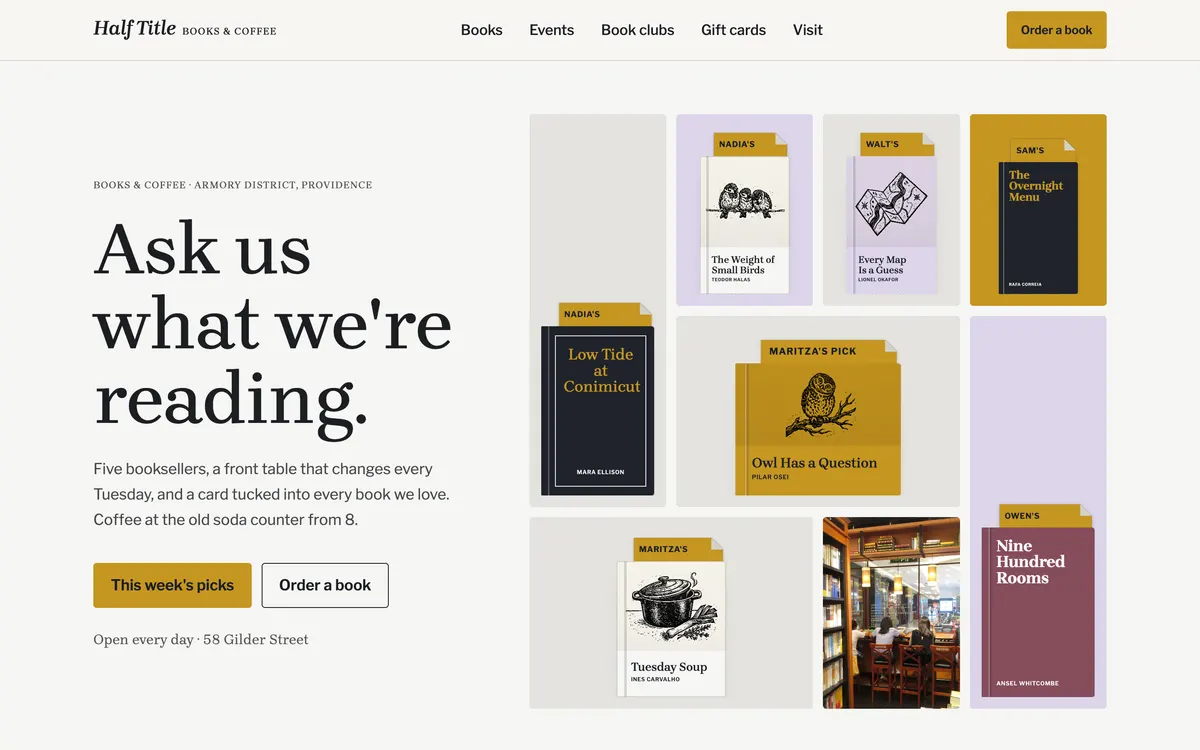
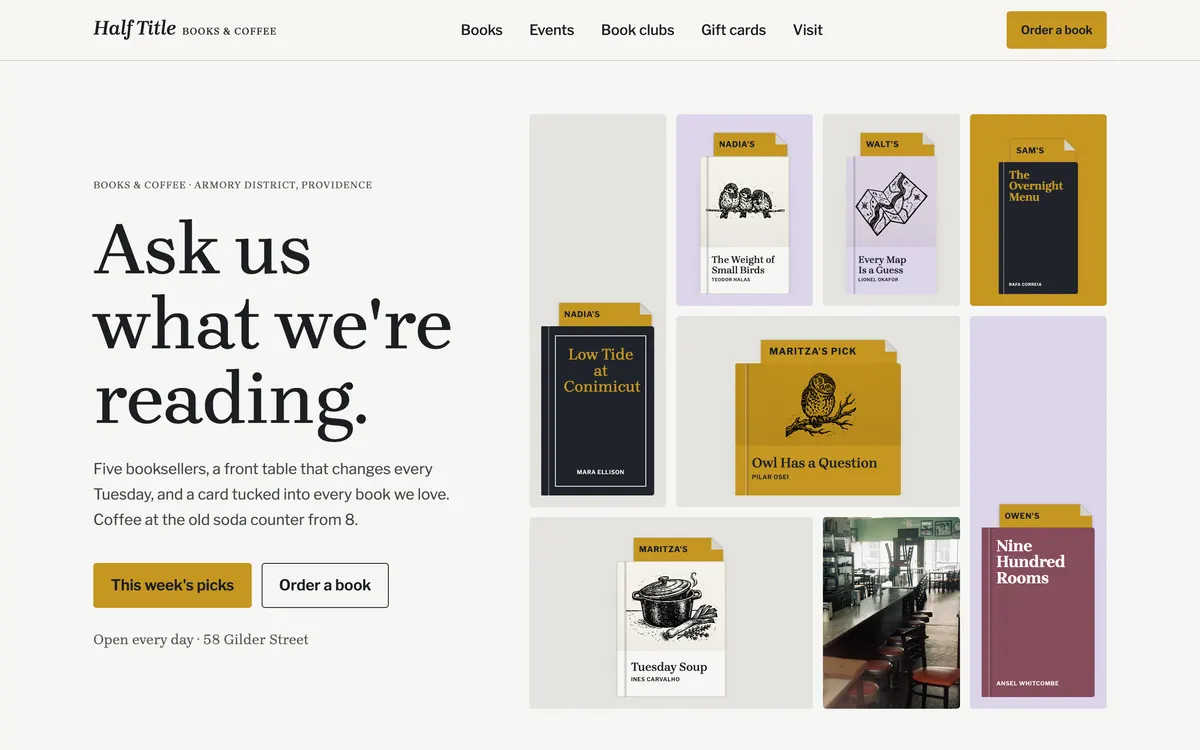
Dogear 1.0.0, review corrections: the visit page's corner building is cropped above its ground floor so no shop's name shows; the hero's photo tile is the soda counter, as the brief asks, in place of a mall bookshop with readable spines; the unused shelves photo is deleted, and the café's pictures c

Changed region(s): [[0.6783, 0.6747, 0.8017, 0.9507]]

diff --git a/dogear/scripts/upcoming.js b/dogear/scripts/upcoming.js
@@ -9,7 +9,7 @@
 // clears the timer and every data-when.
 const EVENING = 17 * 60;
 let timer;
-let marked = [];
+const marked = new Set();
 
 function today(tz) {
   const parts = (zone) =>
@@ -45,13 +45,13 @@ function mark() {
     if (when) event.dataset.when = when;
     else delete event.dataset.when;
     delete event.dataset.beyond;
-    marked.push(event);
+    marked.add(event);
   }
   for (const list of document.querySelectorAll("[data-upcoming]")) {
     const count = Number(list.dataset.upcoming);
     if (!count) continue;
     list.dataset.counted = "";
-    marked.push(list);
+    marked.add(list);
     let shown = 0;
     for (const event of list.querySelectorAll(":scope > [data-event]")) {
       if (event.dataset.when === "past") continue;
@@ -75,5 +75,5 @@ export function stop() {
     delete el.dataset.beyond;
     delete el.dataset.counted;
   }
-  marked = [];
+  marked.clear();
 }

diff --git a/dogear/TEMPLATE.md b/dogear/TEMPLATE.md
@@ -5,16 +5,13 @@ Dogear is the website of an independent bookshop that reads like its front table
 ## How it is made
 
 - Every page shares the header (`parts/header.liquid`: the name "Half Title" with "Books & coffee" from `parts/logo.liquid`, the pages from `navigation`, an "Order a book" button; a Menu button below 1280 px) and the footer (`parts/footer.liquid`, on ink: the name, the Tuesday letter's sign-up from `parts/newsletter.liquid`, the address, phone and email, the week from `hours`, and the links).
-- The covers are drawn, never photos shipped with the template: `parts/jacket.liquid` draws a book from its record's `jacket` (band, frame, type, cloth, art), `tone` (ochre, umber, ink, paper, endpaper, board), `format` (hardcover, paperback, pocket, picture, large) and, for the art layout, its `art` print. The title and author are typed on it. A photo in the book's `image` takes the drawing's place.
 - `parts/pick.liquid` is a staff pick: the jacket with its bookseller's card (`picked_by` and `note`) tucked behind it, peeking in the hero, standing full elsewhere. `parts/hold-link.liquid` is every "Hold a copy" (or "Order it in" when `available` is off), which opens `/order` with the book's title and author written in.
-- The lists: `products` (labeled Books: the hero's mosaic and the staff picks where `pick`, the book of the week where `featured`, the new row where `new`, the signed copies where `badge` is "Signed", a page per book), `team` (the booksellers, matched to a card by `first_name`), `events` (the readings, a page each; a reading's `book` names a book by its title), `clubs` (a club's `next_book` names a book by its title), `hours`, `menu` (the café, courses `drinks` and `pastries`), `clubs-steps`, `order-steps`, `gift-uses`, `events-faq`, `order-faq`, `visit-faq` and `navigation`. Five collected datasources take what visitors send: `special-orders`, `rsvps`, `club-signups`, `gift-card-requests` and `newsletter`, each answered by its fragment in `fragments/`.
+- The lists: `products` (labeled Books: the hero's mosaic and the staff picks where `pick`, the book of the week where `featured`, the new row where `new`, the signed copies where `badge` is "Signed", a page per book), `team` (the booksellers, matched to a card by `first_name`), `events` (the readings, a page each; a reading's `book` names a book by its title), `clubs` (a club's `next_book` names a book by its title), `hours`, `menu` (the café, courses `drinks` and `pastries`), `getting-here`, `clubs-steps`, `order-steps`, `gift-uses`, `events-faq`, `order-faq`, `visit-faq` and `navigation`. Five collected datasources take what visitors send: `special-orders`, `rsvps`, `club-signups`, `gift-card-requests` and `newsletter`, each answered by its fragment in `fragments/`.
 
 ## When adapting
 
 - The name (Half Title Books & Coffee) is in `parts/logo.liquid`, every page's title and description, the footer's last line, `parts/gift-card.liquid` and `parts/story.liquid`. The address (58 Gilder Street, Providence, RI 02909) is in the header's menu, the footer, `parts/hours-address.liquid` and `parts/story.liquid`, with "Get directions" links to a map search for it: change it in those links too. The phone ((401) 555-0163) and the emails are in the footer, `parts/order-band.liquid`, `parts/order-form.liquid`, `parts/faq.liquid`, `parts/hours-address.liquid`, `pages/events/index.liquid` and `pages/clubs.liquid`.
 - Set `data-tz` to the maker's city's time zone ("Europe/Paris", "America/Chicago") on the footer (`parts/footer.liquid`), the readings list (`parts/readings.liquid`) and the reading page's header (`pages/events/[events].liquid`), so "Tonight" follows the shop's clock. Readings' dates and their `starts` (24-hour, "19:00") are facts; write `time` as the site's visitors read it (7 pm, or 19 h 00 in French).
-- The books, their cards, the booksellers, the readings, the clubs and the café's menu are invented. Ask for the maker's real staff picks and their cards' lines, in each bookseller's own voice and under 90 characters; never write praise for a real book in the maker's name. Leave a book's `note` empty rather than invent one: the book then shows without a card.
-- Never download a photo of a real book's cover from the web. A maker who has photos of their own (taken in the shop, or from publishers' catalogs for booksellers) puts each in the book's `image`; until then the drawn jacket stands, with the real title and author typed on it. A new book gets a `jacket`, a `tone` and a `format` like its neighbors, and the art layout only with a print in `art` (a relief print, black on white, no letters).
 - The hours, prices, the club discount (15%), the hold time (ten days), the mailing fee ($5) and the readings' prices are facts: ask for them, or keep the example and say so. "Coffee at the old soda counter from 8" in `parts/hero.liquid`, `parts/soda-counter.liquid`, `parts/cafe-menu.liquid` and the footer's café line must match `hours`.
 - The history of the building (`parts/story.liquid`, `parts/soda-counter.liquid`) is invented: replace it with the maker's, or keep it short and true rather than guess.
 
@@ -28,7 +25,7 @@ The headline beside the front table (this week's picks in a mosaic with their ca
 
 - **They ask, and pay at the till** (as built): "Hold a copy" and the order form on `/order`; requests arrive in the Content tab and the shop calls back. Keep it as it is.
 - **They can also buy online, on the shop's own store**: ask for the store's address, never invent it. Put each book's address on the store in its `order_link`: "Buy online" then shows beside "Hold a copy" on its page and the book of the week. The header's "Order a book" stays for what isn't listed.
-- **By phone only**: every "Hold a copy" and "Order a book" becomes "Call to order" (`tel:`): rewrite `parts/hold-link.liquid` as one `tel:` link, and change the header's and the order band's buttons. Delete `parts/order-form.liquid`, `data/special-orders/`, `fragments/special-orders-thanks.liquid` and the title, author and kind part of `scripts/prefill.js`; on `/order` keep the title, the steps and the questions, with the phone set large in place of the form.
+- **By phone only**: every "Hold a copy" and "Order a book" becomes "Call to order" (`tel:`): rewrite `parts/hold-link.liquid` as one `tel:` link, and change the buttons that open `/order`: the header's two (`parts/header.liquid`, beside the menu and inside it), the hero's "Order a book" (`parts/hero.liquid`), the order band's (`parts/order-band.liquid`) and the Books page's (`parts/ask-band.liquid`); on `/events`, "Keep me a signed copy" (`/order?kind=signed`, in `pages/events/index.liquid`) becomes "Call us to keep a signed copy". Delete `parts/order-form.liquid`, `data/special-orders/`, `fragments/special-orders-thanks.liquid` and the order form's part of `scripts/prefill.js` (title, author and kind; keep amount and club); on `/order` keep the title, the steps and the questions, with the phone set large in place of the form.
 
 #### How are the covers shown?
 
@@ -53,9 +50,9 @@ The staff picks as a grid of jackets with their cards standing full, each bookse
 #### A page for each book?
 
 - **Yes** (as built): each jacket opens its page with the bookseller's note.
-- **No**: delete `pages/books/[products].liquid`; in `parts/pick.liquid`, `parts/book-of-the-week.liquid`, `parts/new-row.liquid`, `parts/by-bookseller.liquid`, `parts/signed.liquid`, `parts/clubs.liquid` and `parts/readings.liquid`, point each book's link to `/order?title={{ book.name | url_encode }}&author={{ book.author | url_encode }}&kind=hold#order`; the book of the week's "Read … note" link goes. The notes stay as the cards' lines.
+- **No**: delete `pages/books/[products].liquid`; in `parts/pick.liquid`, `parts/book-of-the-week.liquid`, `parts/new-row.liquid`, `parts/by-bookseller.liquid`, `parts/signed.liquid`, `parts/clubs.liquid`, `parts/readings.liquid` and the reading page (`pages/events/[events].liquid`: its book's jacket when the book has no card, and "About the book"), point each book's link to `/order?title={{ book.name | url_encode }}&author={{ book.author | url_encode }}&kind=hold#order`; the book of the week's "Read … note" link goes, and so does "About the book" on the reading page. The notes stay as the cards' lines.
 
-When removed: delete `pages/books/` and the `books` navigation record; the hero, the book of the week and the new row stay on the home page with their jackets linking to `/order?title=…` as above, and "This week's picks" in `parts/hero.liquid` points to the book of the week (`/#week`).
+When removed: delete `pages/books/`, the parts only that page shows (`parts/staff-picks.liquid`, `parts/by-bookseller.liquid`, `parts/signed.liquid`, `parts/ask-band.liquid`) and the `books` navigation record; the hero, the book of the week and the new row stay on the home page with their jackets and the reading page's linking to `/order?title=…` as above. The links into the Books page go too: "This week's picks" in `parts/hero.liquid` points to the book of the week (`/#week`), "All new books" (`/books#new`) leaves `parts/new-row.liquid`, and "See …'s picks" (`/books#<name>`) leaves `parts/booksellers.liquid`.
 
 ### Events (`/events`)
 
@@ -91,7 +88,7 @@ The request form (a hold, an order or a signed copy kept; the book; how to reach
 - **Orders only**: for a shop without a list of its stock. In `parts/hold-link.liquid` both links read "Ask for this book" with `kind=order`; remove the first choice ("What you'd like") from `parts/order-form.liquid` and `kind` from `data/special-orders/_datasource.yaml`; remove `{% render 'signed' %}` from the Books page.
 - **Pickup only**: remove the mail checkbox and the address field from `parts/order-form.liquid`, `mail` and `address` from `data/special-orders/_datasource.yaml`, and `data/order-faq/mail.md`.
 
-When removed: delete `pages/order.liquid`, `parts/order-form.liquid`, `data/special-orders/`, `fragments/special-orders-thanks.liquid`, `data/order-steps/`, `data/order-faq/` and the `order` navigation record; the header's button, the order band's and every "Hold a copy" (`parts/hold-link.liquid`) become "Call to order" (`tel:`), and the order band says "Call us and we'll get it".
+When removed: delete `pages/order.liquid`, `parts/order-form.liquid`, `data/special-orders/`, `fragments/special-orders-thanks.liquid`, `data/order-steps/`, `data/order-faq/` and the `order` navigation record. Every link to `/order` becomes "Call to order" (`tel:`): the header's two buttons (`parts/header.liquid`), the hero's "Order a book" (`parts/hero.liquid`), the order band's (`parts/order-band.liquid`, which then says "Call us and we'll get it"), the Books page's (`parts/ask-band.liquid`) and every "Hold a copy" (`parts/hold-link.liquid`); on `/events`, "Keep me a signed copy" (`/order?kind=signed`, in `pages/events/index.liquid`) becomes "Call us to keep a signed copy". Remove the order form's part of `scripts/prefill.js` (title, author and kind).
 
 ### Gift cards (`/gift-cards`)
 
@@ -119,4 +116,4 @@ The building's story with its photo, the week day by day beside the address and 
 - **The booksellers by name** (as built): `parts/booksellers.liquid`, with initials on ochre until the maker sends portraits (each bookseller's `photo`).
 - **The owner only**: `team` keeps one record; replace `{% render 'booksellers' %}` with a section that shows them large beside their own words about the shop, written like `parts/story.liquid`.
 
-When removed: delete `pages/visit.liquid`, `parts/story.liquid`, `parts/hours-address.liquid`, `parts/cafe-menu.liquid`, `parts/booksellers.liquid`, `parts/finding-us.liquid`, `data/visit-faq/` and the `visit` navigation record; the footer keeps the address and hours, and "Plan a visit" in `parts/soda-counter.liquid` points to the footer (`#visit`).
+When removed: delete `pages/visit.liquid`, `parts/story.liquid`, `parts/hours-address.liquid`, `parts/cafe-menu.liquid`, `parts/booksellers.liquid`, `parts/finding-us.liquid`, `data/getting-here/`, `data/visit-faq/` and the `visit` navigation record; the footer keeps the address and hours, and "Plan a visit" in `parts/soda-counter.liquid` points to the footer (`#visit`).

diff --git a/dogear/.upstart/skills/dogear-design/SKILL.md b/dogear/.upstart/skills/dogear-design/SKILL.md
@@ -10,7 +10,7 @@ A bookshop's site that reads like its front table on a Tuesday: books drawn as o
 ## Type
 
 - Brygada 1918 for headings, the wordmark, labels and figures. Headings are 500, sentence case; small headings (a book, a reading, a club) 600 at about 1.375 rem. The hero is `text-[clamp(2.75rem,5vw+1rem,5.75rem)] leading-[1.02]`; a page's title `text-[clamp(2.75rem,5vw+1rem,5.25rem)]`; a section's `text-[clamp(2rem,2.5vw+1rem,3.25rem)]`.
-- Brygada's italic is the booksellers' voice: only on the cards' lines and the wordmark, never on a heading or an accent word.
+- Brygada's italic is the booksellers' voice and the shop's hand: the cards' lines, the wordmark, the gift card's "For" and "From" line and the booksellers' initials. Never on a heading or an accent word.
 - `label`: Brygada in small caps, above headings and before facts ("Reads mostly", "Led by"). `facts`: Brygada's lining, tabular figures for prices, pages, times, dates and hours.
 - Libre Franklin for the body (`body-copy`, 80 % of the ink, at most about 62 characters a line), buttons (600, sentence case) and the cards' bands (700, uppercase, spaced).
 - The wordmark is `parts/logo.liquid`: "Half Title" in Brygada 600 italic with "Books & coffee" in small caps.
@@ -23,7 +23,7 @@ A bookshop's site that reads like its front table on a Tuesday: books drawn as o
 
 ## Effects, and what turns each on
 
-- **Jackets** (`parts/jacket.liquid`, CSS only): a book's `data-jacket` (band, frame, type, cloth, art), `data-tone` (ochre, umber, ink, paper, endpaper, board, all made from the theme) and `data-format` (hardcover 2:3, paperback 0.65, pocket 0.6, picture 5:4, large 0.8). Each jacket is a size container: its type scales with the book. The art layout blends its black-on-white print into the jacket's tone (inverted on ink and umber). A photo in the book's `image` takes the drawing's place. To set a jacket in a column at its true width, wrap it in `<span class="block w-[calc(var(--f)*100%)]" data-format="…">`: `--f` makes a pocket book narrower than a hardcover.
+- **Jackets** (`parts/jacket.liquid`, CSS only): a book's `data-jacket` (band, frame, type, cloth, art), `data-tone` (ochre, umber, ink, paper, endpaper, board, all made from the theme) and `data-format` (hardcover 2:3, paperback 0.65, pocket 0.6, picture 5:4, large 0.8). The title and author are typed on it, and each jacket is a size container: its type scales with the book. The art layout blends its black-on-white print into the jacket's tone (inverted on ink and umber). A photo in the book's `image` takes the drawing's place. To set a jacket in a column at its true width, wrap it in `<span class="block w-[calc(var(--f)*100%)]" data-format="…">`: `--f` makes a pocket book narrower than a hardcover.
 - **Shelf-talkers** (`parts/pick.liquid`, pass `book` and `talker`): a `<figure>` with the jacket's link, then the card as its `<figcaption>`, tucked behind the book. `talker: 'full'` stands the whole card above the book, lifting a little on hover or focus; `talker: 'peek'` (the hero) shows only its ochre band where a pointer can hover, and the card rises and widens to be read on hover or focus; on a touch screen it stands full. A narrow card's band keeps the name alone. Put picks in an element with `data-picks` (`data-picks="load"` in the first screen): `scripts/talkers.js` lowers each card behind its book and raises it, one after another, as they come into view. A book without a `note` shows no card. Cards rise straight up: never tilted, never sliding sideways, no string.
 - **The front table** (`parts/hero.liquid`): `.front-table-wrap` > `.front-table`, tiles (`.tile` with `data-format` and `data-ground`: board, endpaper, ochre) on a dense grid, four columns from 768 px; hardcovers span two rows, picture and large books two columns. Its first seven picks and one photo tile fill it exactly; on a phone, the first four and the photo.
 - **Tonight** (`scripts/upcoming.js`): any element with `data-event`, `data-date` and `data-starts` (24-hour) gets `data-when` (past, today, tonight) in the time zone of the page's `data-tz`. Inside it, `<span data-tag="tonight">Tonight</span>` and `<span data-tag="today">Today</span>` show on their day. A list with `data-upcoming` leaves past readings out; `data-upcoming="3"` (or 2) shows only its first readings still to come. Readings are sorted by date.
@@ -37,13 +37,15 @@ A bookshop's site that reads like its front table on a Tuesday: books drawn as o
 - `products` (labeled Books): `pick` puts a book on the front table and the staff picks; `featured` makes it the book of the week; `new` puts it in "New this Tuesday"; `badge` "Signed" in the signed copies; `available` off turns "Hold a copy" into "Order it in"; `picked_by` (a bookseller's first name) and `note` (90 characters at most) make its card; `order_link` adds "Buy online". The order of the list is the table's order.
 - `team`: `first_name` matches the books' `picked_by` and makes the anchor on `/books` (`#walt`); initials on ochre until there is a `photo`.
 - `events` (by date): `book` and `clubs`' `next_book` match a book by its exact title; `rsvp` (rsvp, ticketed, walk-in) and `booking` (an outside ticket page) set how people come.
-- `hours`, `menu` (courses `drinks` and `pastries`), `clubs-steps`, `order-steps`, `gift-uses`, `events-faq`, `order-faq`, `visit-faq`, `navigation`.
+- `hours`, `menu` (courses `drinks` and `pastries`; an item's `image` shows above the menu on `/visit`, three at most), `getting-here` (the four ways to come on `/visit`), `clubs-steps`, `order-steps`, `gift-uses`, `events-faq`, `order-faq`, `visit-faq`, `navigation`.
 - Collected: `special-orders`, `rsvps`, `club-signups`, `gift-card-requests`, `newsletter`, each answered by its fragment.
 
 ## Rules for the site's whole life
 
-- Never put a photo of a real book's cover found on the web, nor a cover made with lettering by a model: titles are always typed. A cover photo comes from the maker.
-- A card's line is the bookseller's own words, signed, under 90 characters.
+- Never put a photo of a real book's cover found on the web, nor a cover made with lettering by a model: titles are always typed. A cover photo comes from the maker (taken in the shop, or from publishers' catalogs for booksellers) and goes in the book's `image`; until then the drawn jacket stands, with the real title and author typed on it.
+- A new book gets a `jacket`, a `tone` and a `format` like its neighbors, and the art layout only with a print in `art` (a relief print, black on white, no letters).
+- The books, their cards, the booksellers, the readings, the clubs and the café's menu are invented as built. Ask for the maker's real staff picks and their cards' lines; never write praise for a real book in the maker's name.
+- A card's line is the bookseller's own words, signed, under 90 characters. Leave a book's `note` empty rather than invent one: the book then shows without a card.
 - One ochre band and one endpaper band a page at most; ink only for the readings band and the footer.
 - Ochre never colors text on paper; red only for what is tonight, signed or required.
 - No walls of wooden shelves with ladders, open-book icons, coffee-and-book flat lays, burgundy and gold, or pages that curl: the drawn books and the cards are the shop's picture.

diff --git a/dogear/data/products/field-notes-from-a-parking-lot.md b/dogear/data/products/field-notes-from-a-parking-lot.md
@@ -4,7 +4,7 @@ author: "June Takeda"
 price: "$18.00"
 summary: "A naturalist watches one supermarket parking lot for a year."
 category: "Nature writing"
-available: true
+available: false
 publisher: "Fieldline Books"
 pages: 208
 published: "2026-06-09"
@@ -19,4 +19,4 @@ tone: "endpaper"
 ---
 June Takeda spent a year watching the parking lot of the supermarket where she shops: the gulls on the light poles, the chicory in the cracks, and a fox that lives behind the bottle return.
 
-It's funny and very kind, and it made me look at the lot on Cranston Street differently. Short chapters, one a week, good for the bus. — Walt
+It's funny and very kind, and it made me look at the lot on Cranston Street differently. Short chapters, one a week, good for the bus. We sold the last copy on Saturday: ask, and we'll have it in three days. — Walt

diff --git a/dogear/data/products/weather-for-swimmers.md b/dogear/data/products/weather-for-swimmers.md
@@ -4,7 +4,7 @@ author: "Tess Arrowood"
 price: "$18.00"
 summary: "Eleven stories set on the beaches of New England, out of season."
 category: "Stories"
-available: false
+available: true
 publisher: "Narrows Press"
 pages: 192
 published: "2027-03-09"
@@ -15,4 +15,4 @@ format: "paperback"
 jacket: "frame"
 tone: "board"
 ---
-Eleven stories about people who swim in the sea in October. Our copies went on Tuesday; more are on the way.
+Eleven stories about people who swim in the sea in October.

diff --git a/dogear/data/getting-here/access.md b/dogear/data/getting-here/access.md
@@ -1,0 +1,4 @@
+---
+title: "Access"
+text: "Step-free from Gilder Street, aisles a wheelchair's width, and an accessible restroom at the back."
+---

diff --git a/dogear/data/getting-here/parking.md b/dogear/data/getting-here/parking.md
@@ -1,0 +1,4 @@
+---
+title: "Parking"
+text: "Metered on Gilder and Dexter Streets, and free on the street after 6 pm and all Sunday."
+---

diff --git a/dogear/data/getting-here/bus.md b/dogear/data/getting-here/bus.md
@@ -1,0 +1,4 @@
+---
+title: "By bus"
+text: "Buses stop on Cranston Street and on Westminster Street, both a three-minute walk."
+---

diff --git a/dogear/data/getting-here/bike.md b/dogear/data/getting-here/bike.md
@@ -1,0 +1,4 @@
+---
+title: "By bike"
+text: "There's a rack for six bikes at the door, under the old pharmacy sign."
+---
